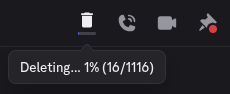
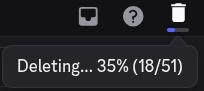
feat: add Vencord compatibility
Use webpack patch (TrailingWrapper) instead of Equicord's HeaderBarAPI
so the plugin works on both Vencord and Equicord without any
mod-specific code. Update README to reflect both mods.

diff --git a/index.tsx b/index.tsx
@@ -6,9 +6,10 @@
 
 import "./styles.css";
 
-import { ChannelToolbarButton } from "@api/HeaderBar";
+import ErrorBoundary from "@components/ErrorBoundary";
 import { Logger } from "@utils/Logger";
 import definePlugin from "@utils/types";
+import { findComponentByCodeLazy } from "@webpack";
 import { useCallback, useEffect, useRef, useState } from "@webpack/common";
 
 import { CloseIcon, TrashIcon } from "./ui/components/icons";
@@ -19,6 +20,7 @@ import { ImportTab } from "./ui/ImportTab";
 import { ProgressState, ProgressView } from "./ui/ProgressView";
 import { defaultFilters, DeletionController, FilterConfig, runDeletion } from "./utils";
 
+const HeaderBarIcon = findComponentByCodeLazy(".HEADER_BAR_BADGE_BOTTOM,", 'position:"bottom"');
 const logger = new Logger("rmcord", "#5865f2");
 
 type Tab = "guilds" | "direct-messages" | "import";
@@ -315,14 +317,14 @@ function Panel({ onClose }: { onClose: () => void; }) {
     );
 }
 
-function ToolbarIcon({ size, color }: { size?: string | number; color?: string; }) {
+function ToolbarIcon() {
     const pct = globalProgress && globalProgress.total > 0
         ? Math.round((globalProgress.deleted / globalProgress.total) * 100)
         : null;
 
     return (
         <div className="rmcord-toolbar-icon">
-            <TrashIcon size={size} color={color} />
+            <TrashIcon />
             {pct !== null && (
                 <div className="rmcord-toolbar-progress">
                     <div className="rmcord-toolbar-progress-fill" style={{ width: `${pct}%` }} />
@@ -359,10 +361,11 @@ function ToolbarButton() {
 
     return (
         <>
-            <ChannelToolbarButton
-                icon={ToolbarIcon}
-                tooltip={tooltip}
+            <HeaderBarIcon
+                className="rmcord-header-btn"
                 onClick={() => setOpen(!open)}
+                tooltip={tooltip}
+                icon={() => <ToolbarIcon />}
                 selected={open}
             />
             {open && <Panel onClose={() => setOpen(false)} />}
@@ -374,11 +377,25 @@ export default definePlugin({
     name: "rmcord",
     description: "Bulk delete your Discord messages from a floating panel",
     authors: [{ name: "max", id: 0n }],
-    dependencies: ["HeaderBarAPI"],
 
-    headerBarButton: {
-        icon: TrashIcon,
-        render: () => <ToolbarButton />,
-        location: "channeltoolbar" as const,
+    patches: [
+        {
+            find: '?"BACK_FORWARD_NAVIGATION":',
+            replacement: {
+                match: /(trailing:.{0,50}?)\i\.Fragment,(?=\{children:\[)/,
+                replace: "$1$self.TrailingWrapper,"
+            },
+        }
+    ],
+
+    TrailingWrapper({ children }: { children: React.ReactNode; }) {
+        return (
+            <>
+                {children}
+                <ErrorBoundary noop>
+                    <ToolbarButton />
+                </ErrorBoundary>
+            </>
+        );
     },
 });

diff --git a/README.md b/README.md
@@ -2,7 +2,7 @@
 
 > **Disclaimer:** Any tool that automates actions on user accounts, including this one, may violate Discord's Terms of Service and could result in account suspension or termination. Use at your own risk. See [LEGAL.md](LEGAL.md) for full details.
 
-An [Equicord](https://github.com/Equicord/Equicord) plugin that lets you bulk-delete your own Discord messages from a floating panel. Works across guilds, channels, and direct messages.
+A [Vencord](https://github.com/Vendicated/Vencord) / [Equicord](https://github.com/Equicord/Equicord) plugin that lets you bulk-delete your own Discord messages from a floating panel. Works across guilds, channels, and direct messages.
 
 ## Features
 
@@ -23,7 +23,7 @@ An [Equicord](https://github.com/Equicord/Equicord) plugin that lets you bulk-de
 
 ## Installation
 
-You need to build Equicord from source. The plugin goes in `src/userplugins/`, which is the designated location for personal plugins that aren't tracked by Equicord's git.
+You need to build Vencord or Equicord from source. The plugin goes in `src/userplugins/`, which is the designated location for personal plugins that aren't tracked by git.
 
 ### Prerequisites
 
@@ -31,11 +31,17 @@ You need to build Equicord from source. The plugin goes in `src/userplugins/`, w
 - [Node.js](https://nodejs.org) 22 or later
 - [pnpm](https://pnpm.io) (enable via `corepack enable`)
 
-### Step 1: Clone Equicord
+### Step 1: Clone Vencord or Equicord
 
-If you haven't already, clone the Equicord repo and install dependencies:
+If you haven't already, clone the repo and install dependencies:
 
 ```sh
+# Vencord
+git clone https://github.com/Vendicated/Vencord.git
+cd Vencord
+pnpm install
+
+# or Equicord
 git clone https://github.com/Equicord/Equicord.git
 cd Equicord
 pnpm install
@@ -54,12 +60,12 @@ git clone https://github.com/max/rmcord.git
 The plugin must be in its own folder with an `index.tsx` entry point. The final path should look like:
 
 ```
-Equicord/src/userplugins/rmcord/index.tsx
+Vencord/src/userplugins/rmcord/index.tsx
 ```
 
 ### Step 3: Build and restart
 
-Build Equicord from the repo root:
+Build from the repo root:
 
 ```sh
 cd ../..
@@ -80,7 +86,7 @@ Then load the unpacked extension from `dist/chromium-unpacked` (Chrome/Edge) or 
 
 ### Updating the plugin
 
-Equicord's `git pull` doesn't update user plugins. To update rmcord:
+`git pull` doesn't update user plugins. To update rmcord:
 
 ```sh
 cd src/userplugins/rmcord
@@ -98,7 +104,6 @@ Then restart Discord.
 Follow the same installation steps above, then use the watch build for faster iteration:
 
 ```sh
-cd Equicord
 pnpm buildWeb --watch
 ```
 
@@ -152,7 +157,7 @@ It redacts guild names, channel names, usernames, and message content from the p
 
 Open an issue on the [Issues](../../issues) page with:
 
-- Equicord version and branch
+- Vencord/Equicord version and branch
 - Steps to reproduce
 - Screenshots, a recording, or console output (`Ctrl+Shift+I` > Console, filter by "rmcord")
 
